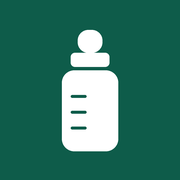
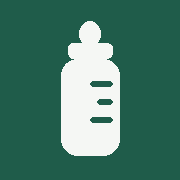
Add files via upload

diff --git a/index.html b/index.html
@@ -4,62 +4,221 @@
 <meta charset="utf-8">
 <title>Baby shop till</title>
 <meta name="viewport" content="width=device-width, initial-scale=1, viewport-fit=cover">
+<meta name="theme-color" content="#1F5C4A">
 <meta name="apple-mobile-web-app-capable" content="yes">
 <meta name="mobile-web-app-capable" content="yes">
-<meta name="apple-mobile-web-app-status-bar-style" content="default">
 <meta name="apple-mobile-web-app-title" content="Till">
-<meta name="theme-color" content="#0E5C4A">
+<meta name="apple-mobile-web-app-status-bar-style" content="default">
 <link rel="manifest" href="./manifest.webmanifest">
 <link rel="apple-touch-icon" href="./icon-180.png">
-<link rel="stylesheet" href="./styles.css">
+<style>
+  :root {
+    --bg: #F2F4F1;
+    --card: #FFFFFF;
+    --ink: #16261F;
+    --muted: #5A6A62;
+    --line: #DDE3DE;
+    --brand: #1F5C4A;
+    --good: #2E7D63;
+    --warn: #8A6100;
+    --bad: #9B2C1F;
+  }
+  * { box-sizing: border-box; }
+  html, body { margin: 0; padding: 0; }
+  body {
+    background: var(--bg);
+    color: var(--ink);
+    font-family: ui-rounded, -apple-system, "SF Pro Rounded", "Helvetica Neue", sans-serif;
+    font-size: 18px;
+    line-height: 1.5;
+    -webkit-text-size-adjust: 100%;
+    padding:
+      calc(env(safe-area-inset-top) + 28px)
+      calc(env(safe-area-inset-right) + 20px)
+      calc(env(safe-area-inset-bottom) + 40px)
+      calc(env(safe-area-inset-left) + 20px);
+  }
+  main { max-width: 32rem; margin: 0 auto; }
+
+  .shopname {
+    font-size: 15px;
+    color: var(--brand);
+    letter-spacing: 0.01em;
+    margin: 0 0 20px;
+  }
+
+  .verdict {
+    font-size: 30px;
+    line-height: 1.2;
+    font-weight: 700;
+    letter-spacing: -0.02em;
+    margin: 0 0 6px;
+  }
+  .verdict[data-state="good"] { color: var(--good); }
+  .verdict[data-state="warn"] { color: var(--warn); }
+  .verdict[data-state="bad"]  { color: var(--bad); }
+
+  .verdict-note {
+    margin: 0 0 28px;
+    color: var(--muted);
+    font-size: 16px;
+  }
+
+  .checks {
+    background: var(--card);
+    border: 1px solid var(--line);
+    border-radius: 14px;
+    overflow: hidden;
+  }
+  .check {
+    display: flex;
+    gap: 14px;
+    align-items: baseline;
+    padding: 16px 18px;
+    border-top: 1px solid var(--line);
+  }
+  .check:first-child { border-top: 0; }
+  .check .label { flex: 1; }
+  .check .label b { display: block; font-weight: 600; }
+  .check .label span { display: block; font-size: 15px; color: var(--muted); }
+  .check .value { font-weight: 700; white-space: nowrap; }
+  .check[data-state="good"] .value { color: var(--good); }
+  .check[data-state="warn"] .value { color: var(--warn); }
+  .check[data-state="bad"]  .value { color: var(--bad); }
+
+  button {
+    font: inherit;
+    font-weight: 600;
+    color: #fff;
+    background: var(--brand);
+    border: 0;
+    border-radius: 12px;
+    padding: 15px 22px;
+    margin-top: 22px;
+    min-height: 52px;
+    width: 100%;
+    cursor: pointer;
+    -webkit-tap-highlight-color: transparent;
+  }
+  button:active { background: #17473A; }
+  button:focus-visible { outline: 3px solid var(--ink); outline-offset: 2px; }
+
+  footer {
+    margin-top: 26px;
+    font-size: 14px;
+    color: var(--muted);
+  }
+</style>
 </head>
 <body>
 <main>
-  <header>
-    <h1>Baby shop till</h1>
-    <p class="sub">Foundation build. Nothing sells yet — this screen only proves the app is installed correctly.</p>
-  </header>
+  <p class="shopname">Baby shop till</p>
 
-  <section class="checks" aria-label="Installation checks">
-    <div class="check" id="check-home">
-      <span class="dot" aria-hidden="true"></span>
-      <div>
-        <h2>Opened from Home Screen</h2>
-        <p class="state">Checking…</p>
+  <h1 class="verdict" id="verdict">Checking…</h1>
+  <p class="verdict-note" id="verdict-note">One moment.</p>
+
+  <section class="checks" id="checks">
+    <div class="check" id="row-net">
+      <div class="label">
+        <b>Internet</b>
+        <span id="net-note">&nbsp;</span>
       </div>
+      <div class="value" id="net-value">–</div>
     </div>
 
-    <div class="check" id="check-copy">
-      <span class="dot" aria-hidden="true"></span>
-      <div>
-        <h2>Offline copy saved</h2>
-        <p class="state">Checking…</p>
+    <div class="check" id="row-home">
+      <div class="label">
+        <b>Opened from Home Screen</b>
+        <span id="home-note">&nbsp;</span>
       </div>
+      <div class="value" id="home-value">–</div>
     </div>
 
-    <div class="check" id="check-net">
-      <span class="dot" aria-hidden="true"></span>
-      <div>
-        <h2>Internet</h2>
-        <p class="state">Checking…</p>
+    <div class="check" id="row-cache">
+      <div class="label">
+        <b>Offline copy on this iPad</b>
+        <span id="cache-note">&nbsp;</span>
       </div>
+      <div class="value" id="cache-value">–</div>
     </div>
   </section>
 
-  <section class="test">
-    <h2>The test</h2>
-    <ol>
-      <li>Turn on airplane mode.</li>
-      <li>Close this app completely.</li>
-      <li>Open it again from the Home Screen icon.</li>
-    </ol>
-    <p>The first two checks must stay green. The third will turn grey, and that is correct.</p>
-  </section>
+  <button id="recheck">Check again</button>
 
-  <footer>
-    <p>Version <span id="version">1</span></p>
-  </footer>
+  <footer>Foundation build 1 · no products, no sales yet</footer>
 </main>
-<script src="./app.js"></script>
+
+<script>
+  var $ = function (id) { return document.getElementById(id); };
+
+  function setRow(row, state, value, note) {
+    $('row-' + row).setAttribute('data-state', state);
+    $(row + '-value').textContent = value;
+    $(row + '-note').innerHTML = note || '&nbsp;';
+  }
+
+  function isHomeScreen() {
+    var standalone = window.navigator.standalone === true;
+    var css = window.matchMedia && window.matchMedia('(display-mode: standalone)').matches;
+    return standalone || css;
+  }
+
+  function hasOfflineCopy() {
+    return !!(navigator.serviceWorker && navigator.serviceWorker.controller);
+  }
+
+  function run() {
+    var online = navigator.onLine;
+    var home = isHomeScreen();
+    var cached = hasOfflineCopy();
+
+    setRow('net', online ? 'good' : 'warn',
+      online ? 'On' : 'Off',
+      online ? 'Fine either way.' : 'Fine — the till does not need it.');
+
+    setRow('home', home ? 'good' : 'warn',
+      home ? 'Yes' : 'No',
+      home ? '' : 'You are in Safari. Add to Home Screen, then open the icon.');
+
+    setRow('cache', cached ? 'good' : 'warn',
+      cached ? 'Saved' : 'Not yet',
+      cached ? '' : 'Stay online a moment, then tap Check again.');
+
+    if (home && cached) {
+      $('verdict').setAttribute('data-state', 'good');
+      $('verdict').textContent = 'Working offline';
+      $('verdict-note').textContent = 'Turn on Airplane Mode, close this, and open it again. It should still open.';
+    } else if (cached && !home) {
+      $('verdict').setAttribute('data-state', 'warn');
+      $('verdict').textContent = 'Almost there';
+      $('verdict-note').textContent = 'The iPad has its own copy. Now add it to the Home Screen and open it from there.';
+    } else {
+      $('verdict').setAttribute('data-state', 'warn');
+      $('verdict').textContent = 'Setting up';
+      $('verdict-note').textContent = 'Keep the internet on for a few seconds while the iPad saves its copy.';
+    }
+  }
+
+  if ('serviceWorker' in navigator) {
+    navigator.serviceWorker.register('./service-worker.js')
+      .then(function () { return navigator.serviceWorker.ready; })
+      .then(function () { setTimeout(run, 400); })
+      .catch(function () {
+        $('verdict').setAttribute('data-state', 'bad');
+        $('verdict').textContent = 'Cannot save an offline copy';
+        $('verdict-note').textContent = 'This usually means the address is not https. Check the GitHub Pages link.';
+      });
+    navigator.serviceWorker.addEventListener('controllerchange', run);
+  } else {
+    $('verdict').setAttribute('data-state', 'bad');
+    $('verdict').textContent = 'This iPad cannot run the till';
+    $('verdict-note').textContent = 'Update iPadOS, or open the link in Safari rather than another browser.';
+  }
+
+  window.addEventListener('online', run);
+  window.addEventListener('offline', run);
+  $('recheck').addEventListener('click', run);
+  run();
+</script>
 </body>
 </html>

diff --git a/service-worker.js b/service-worker.js
@@ -1,16 +1,13 @@
-// Keeps a copy of the app on the device so it opens with no internet.
-// When any file changes, raise the number in CACHE so the iPad picks it up.
+/* Keeps a copy of the till on the iPad so it opens with no internet.
+   Change CACHE when you send a new version of the files. */
 
-var CACHE = 'till-shell-v1';
+var CACHE = 'till-1';
 
 var FILES = [
   './',
   './index.html',
-  './styles.css',
-  './app.js',
   './manifest.webmanifest',
   './icon-180.png',
-  './icon-192.png',
   './icon-512.png'
 ];
 
@@ -28,7 +25,7 @@ self.addEventListener('activate', function (event) {
   event.waitUntil(
     caches.keys().then(function (names) {
       return Promise.all(names.map(function (name) {
-        if (name !== CACHE) return caches.delete(name);
+        if (name !== CACHE) { return caches.delete(name); }
       }));
     }).then(function () {
       return self.clients.claim();
@@ -37,15 +34,29 @@ self.addEventListener('activate', function (event) {
 });
 
 self.addEventListener('fetch', function (event) {
-  if (event.request.method !== 'GET') return;
+  var request = event.request;
+
+  if (request.method !== 'GET') { return; }
+
+  // Opening the app: always fall back to the saved page.
+  if (request.mode === 'navigate') {
+    event.respondWith(
+      fetch(request).catch(function () {
+        return caches.match('./index.html');
+      })
+    );
+    return;
+  }
 
   event.respondWith(
-    caches.match(event.request).then(function (hit) {
-      if (hit) return hit;
-      return fetch(event.request).catch(function () {
-        if (event.request.mode === 'navigate') {
-          return caches.match('./index.html');
+    caches.match(request).then(function (hit) {
+      if (hit) { return hit; }
+      return fetch(request).then(function (response) {
+        if (response && response.status === 200 && response.type === 'basic') {
+          var copy = response.clone();
+          caches.open(CACHE).then(function (cache) { cache.put(request, copy); });
         }
+        return response;
       });
     })
   );
